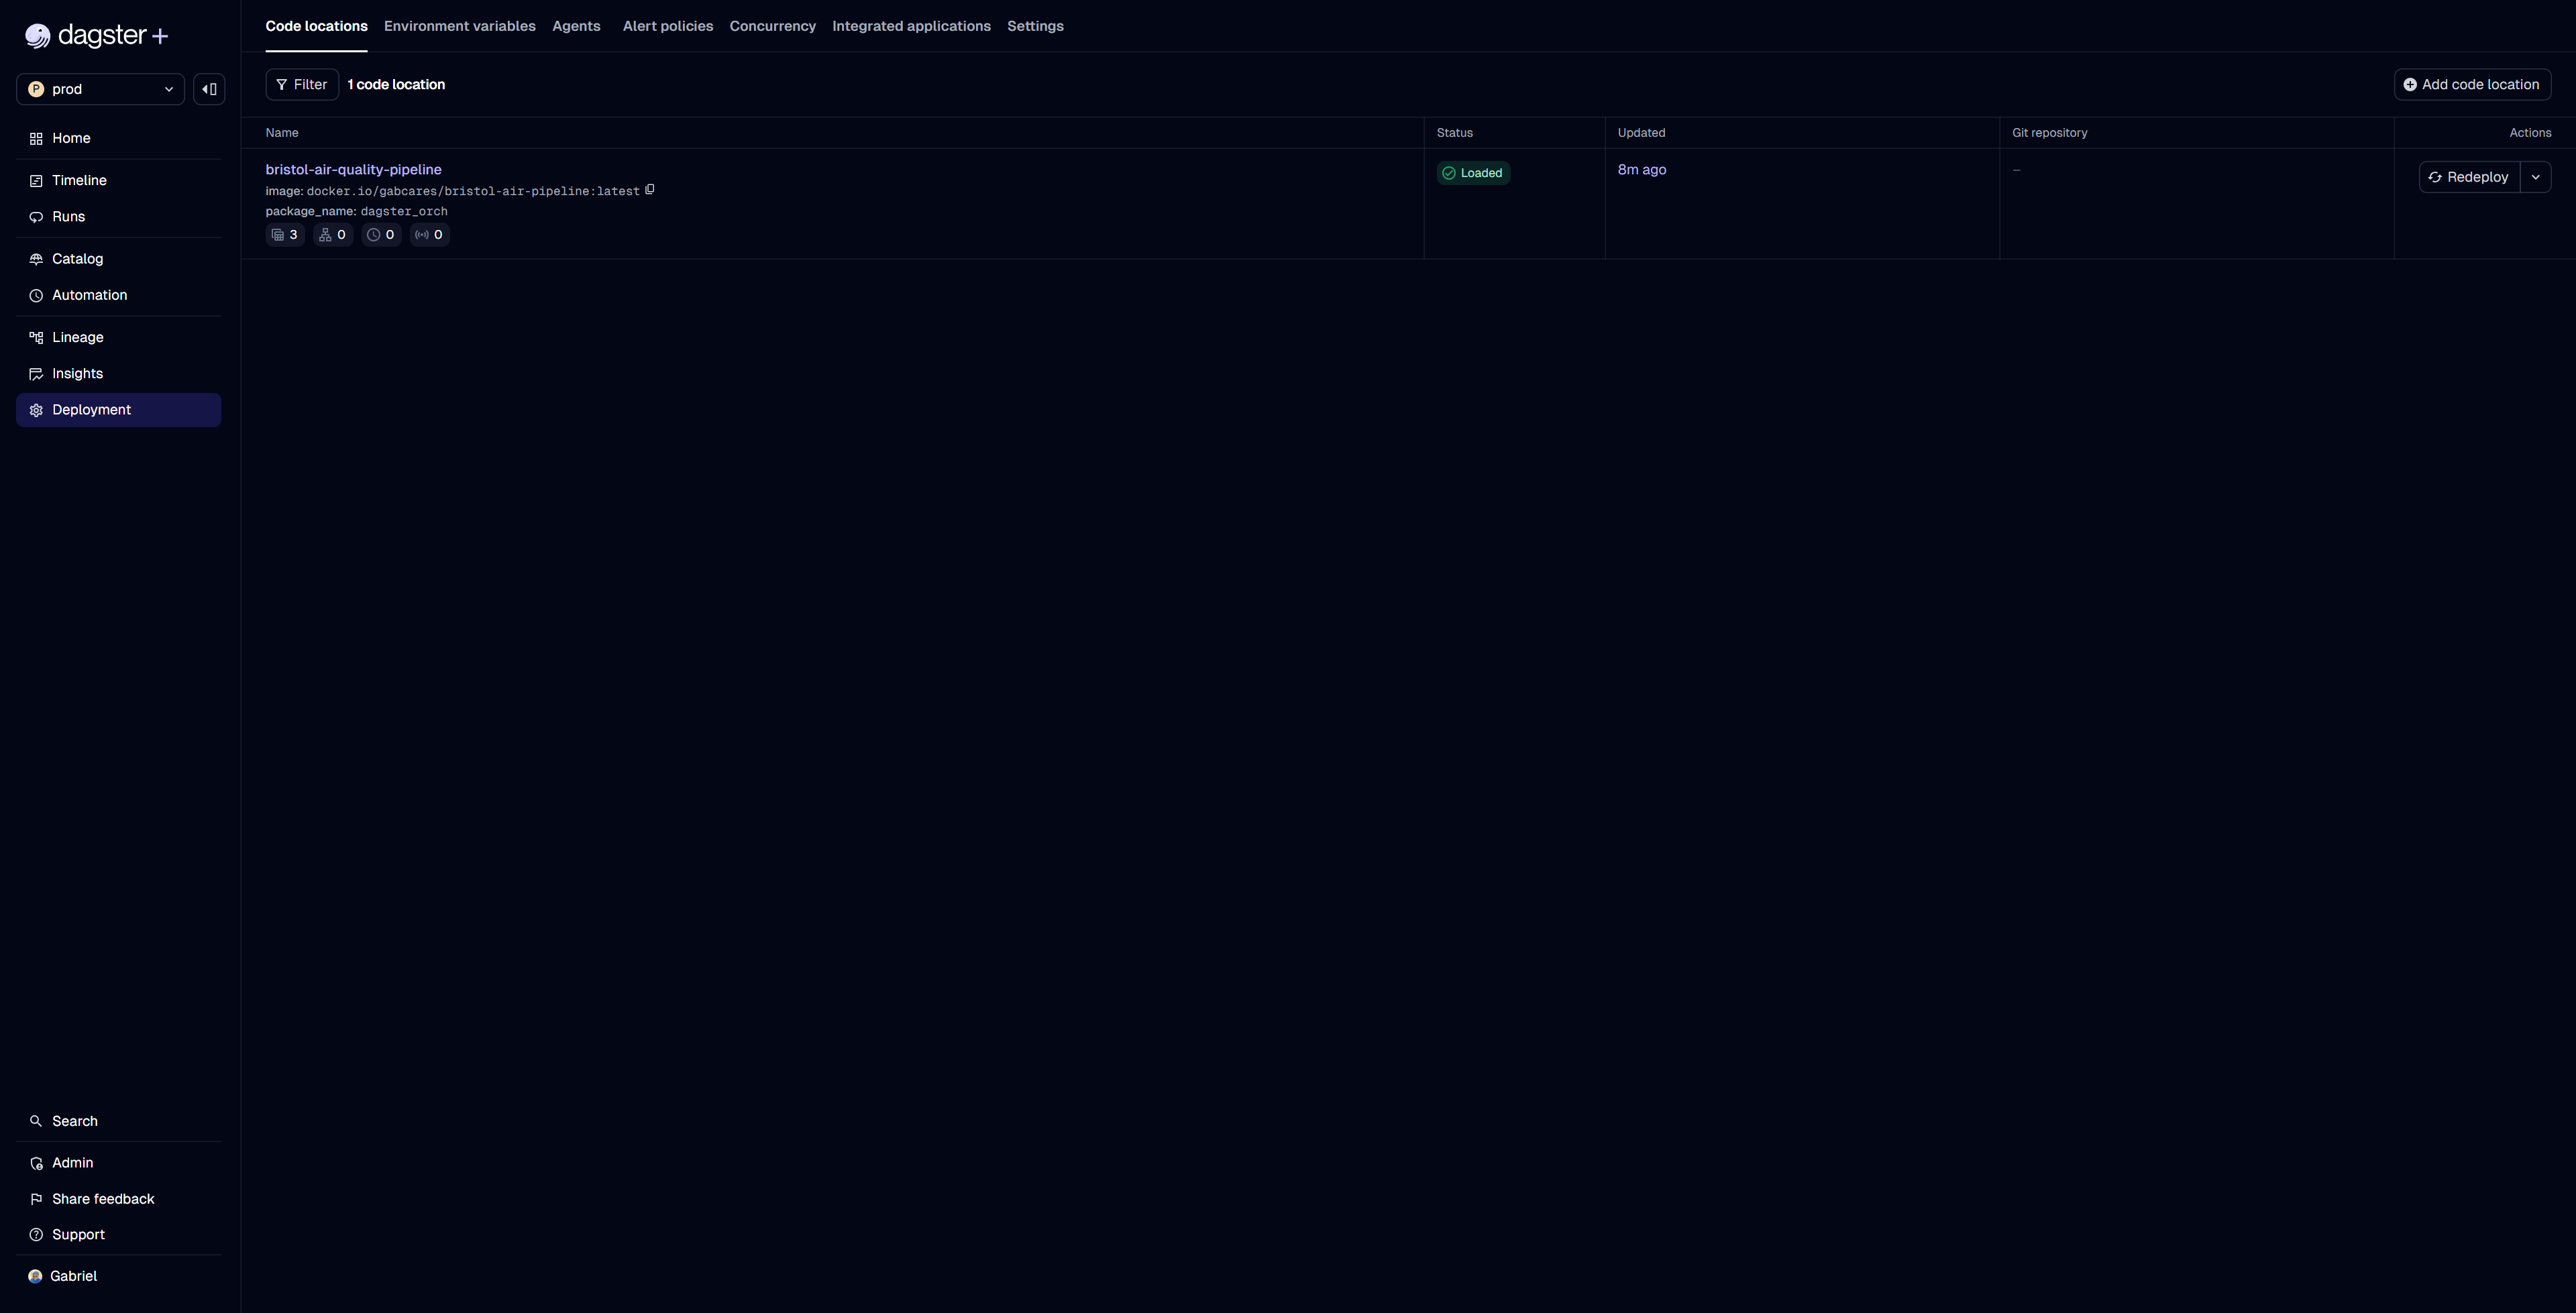
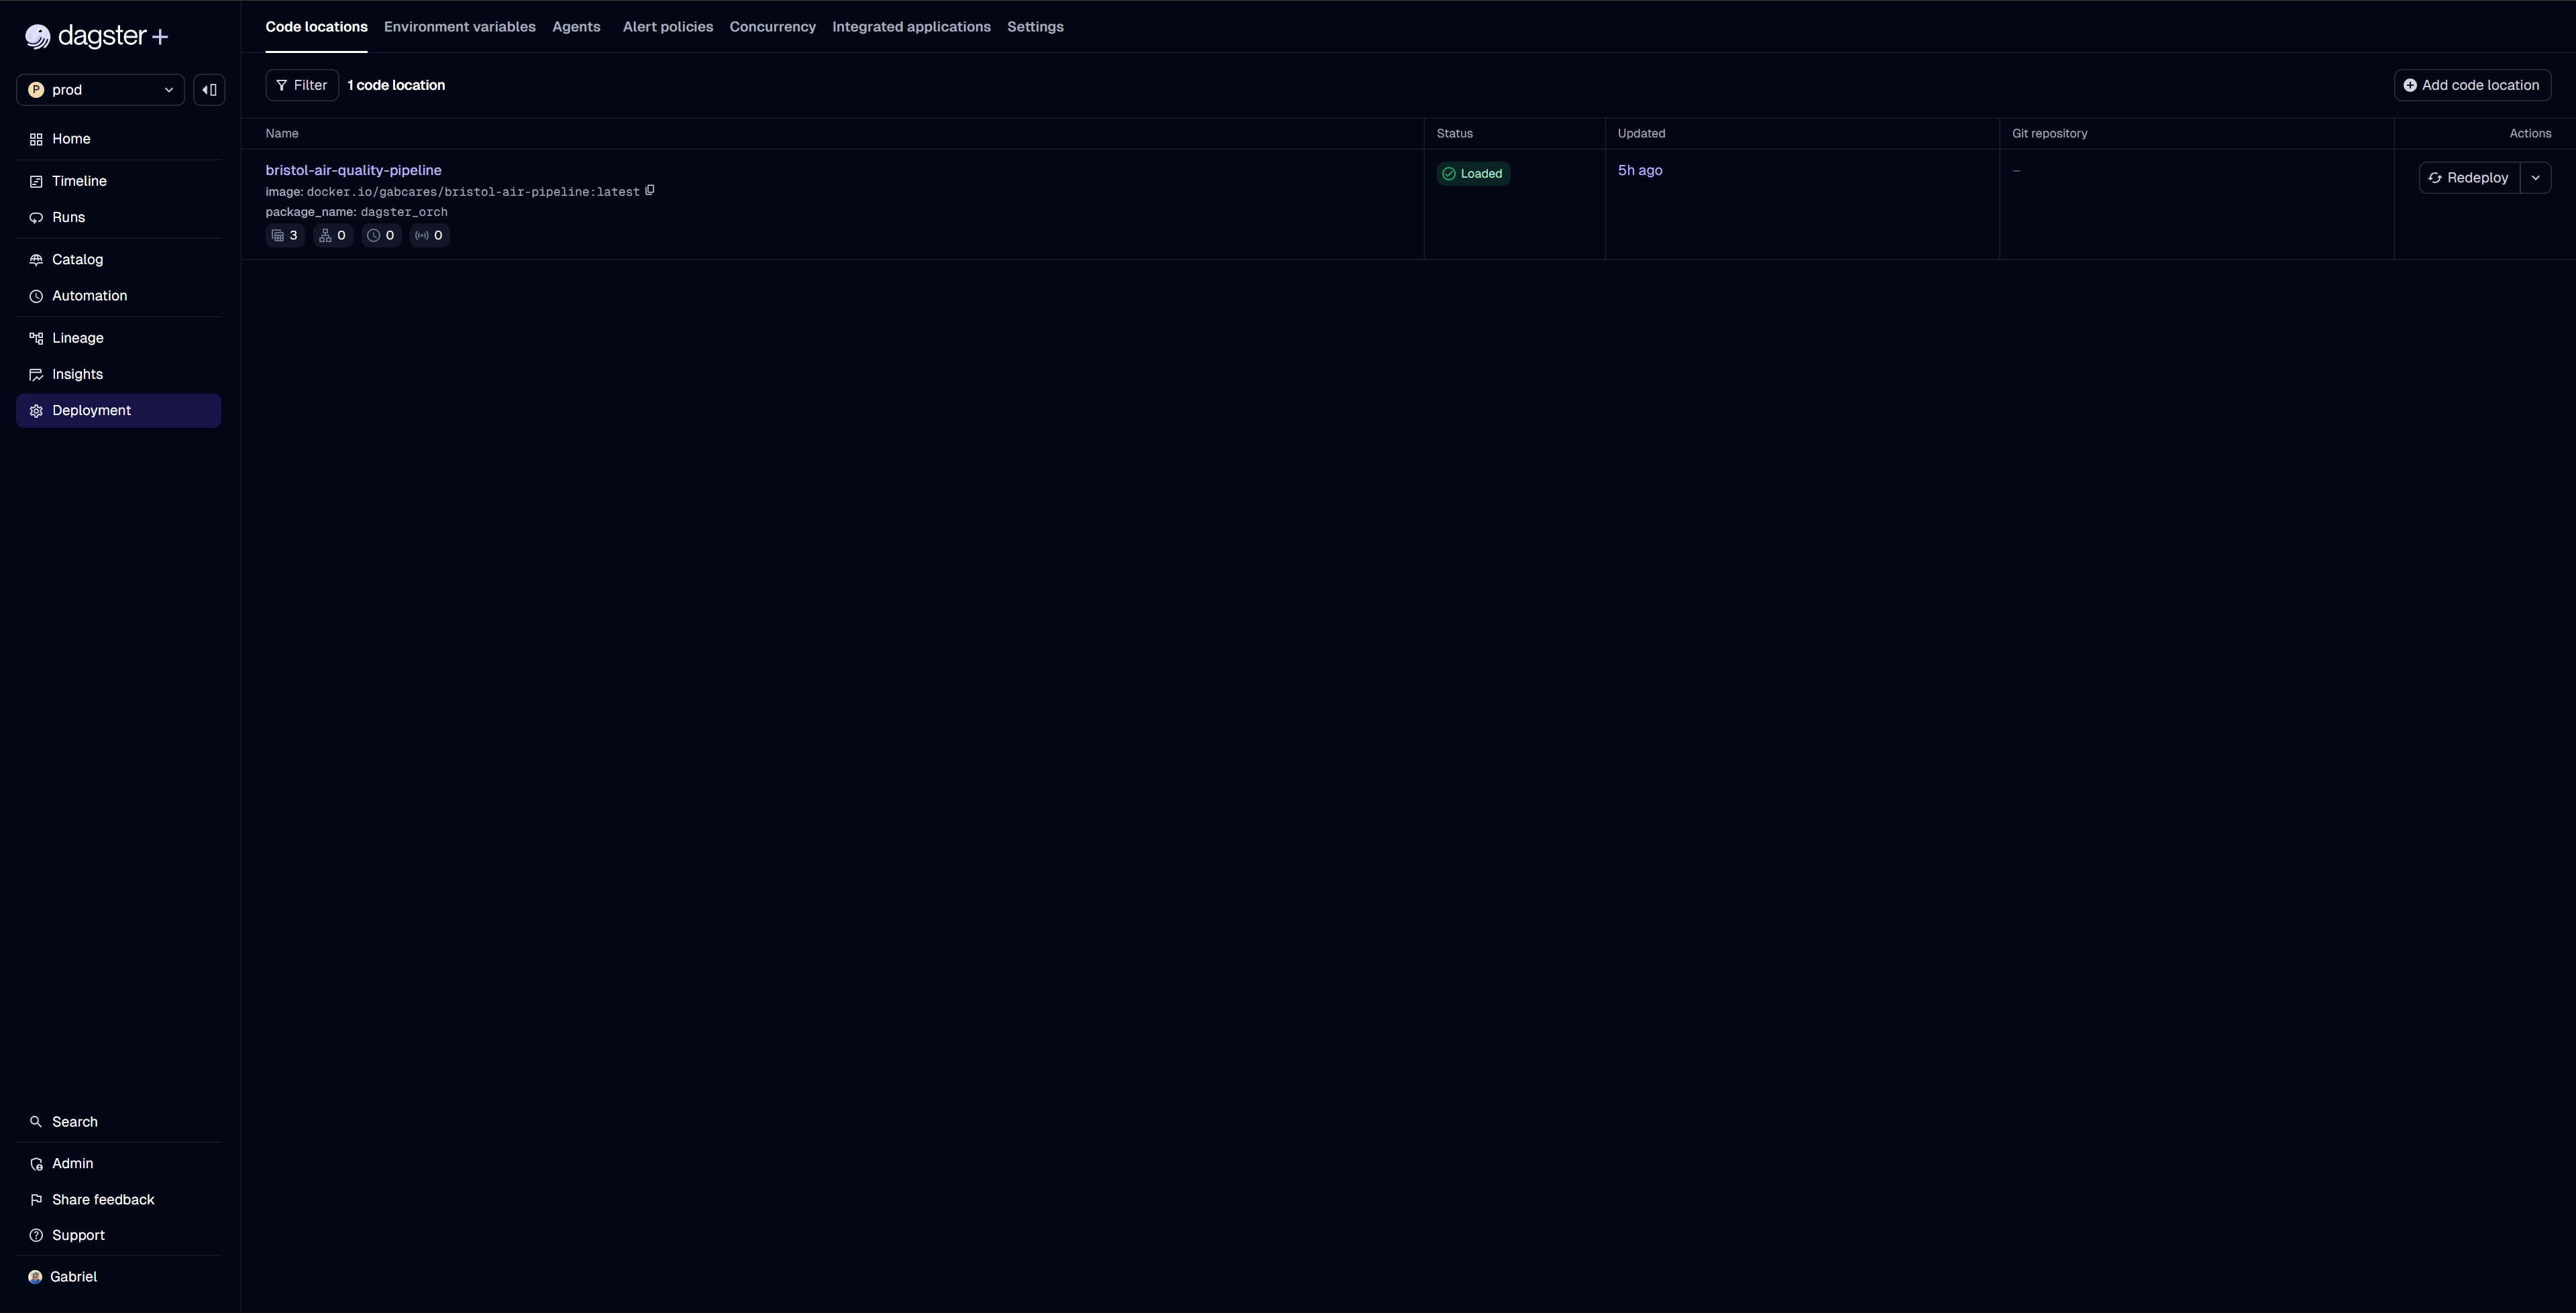
docs: add technology badges and fix typo in dataset size in README.md

diff --git a/README.md b/README.md
@@ -1,5 +1,13 @@
 # Bristol Air Quality: Multi-Container Analytical Data Stack
 
+[![Python](https://img.shields.io/badge/Python-3776AB?style=for-the-badge&logo=python&logoColor=white)](https://www.python.org/)
+[![PostgreSQL](https://img.shields.io/badge/PostgreSQL-4169E1?style=for-the-badge&logo=postgresql&logoColor=white)](https://www.postgresql.org/)
+[![MongoDB](https://img.shields.io/badge/MongoDB-47A248?style=for-the-badge&logo=mongodb&logoColor=white)](https://www.mongodb.com/)
+[![Docker](https://img.shields.io/badge/Docker-2496ED?style=for-the-badge&logo=docker&logoColor=white)](https://www.docker.com/)
+[![dbt](https://img.shields.io/badge/dbt-FF694B?style=for-the-badge&logo=dbt&logoColor=white)](https://www.getdbt.com/)
+[![Dagster](https://img.shields.io/badge/Dagster-252525?style=for-the-badge&logo=dagster&logoColor=white)](https://dagster.io/)
+[![uv](https://img.shields.io/badge/uv-DE5C46?style=for-the-badge&logo=rust&logoColor=white)](https://github.com/astral-sh/uv)
+
 A production-ready, three-tier data engineering stack designed to orchestrate the ingestion, validation, analytical modeling, and cache serving of high-frequency environmental sensor telemetry. 
 
 This repository serves as an enterprise-grade blueprint for processing both historical continuous air quality logs and live synthetic sensor streams. By decoupling ingestion, warehouse transformation, and serving layers, the architecture guarantees low-latency query performance, zero data-loss validation, and horizontal scalability.
@@ -147,7 +155,7 @@ The raw telemetry represents continuous hourly observations taken from monitorin
 
 - **Dataset Source**: Bristol City Council Air Quality Monitoring Open Data
 - **Dataset Provenance**: University of the West of England (UWE Bristol), UFCFLR-15-M Data Management Fundamentals (Academic Year 2022-23)
-- **Direct Dataset Download**: [air-quality-data-continuous.zip](https://fetstudy.uwe.ac.uk/~p-chatterjee/2022-23/dmf/assignment/air-quality-data-continuous.zip) (approx. 23.2 MB compressed, unzipping to a ~247 MB CSV file containing 1.5M+ observations).
+- **Direct Dataset Download**: [air-quality-data-continuous.zip](https://fetstudy.uwe.ac.uk/~p-chatterjee/2022-23/dmf/assignment/air-quality-data-continuous.zip) (approx. 18.8 MB compressed, unzipping to a ~247 MB CSV file containing 1.5M+ observations).
 
 ### Data Definition Schema (23 Columns)
 